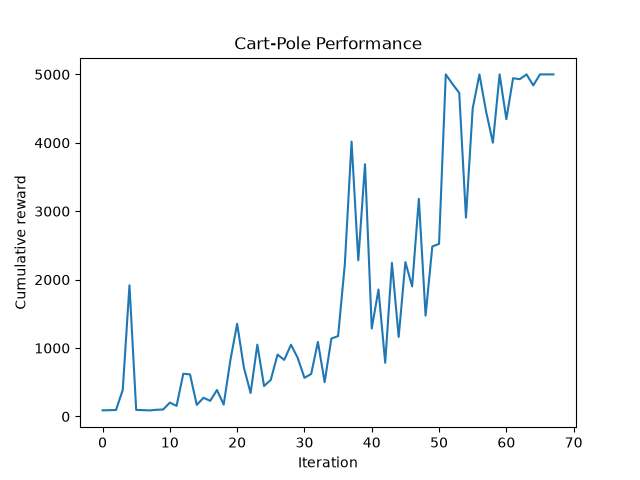
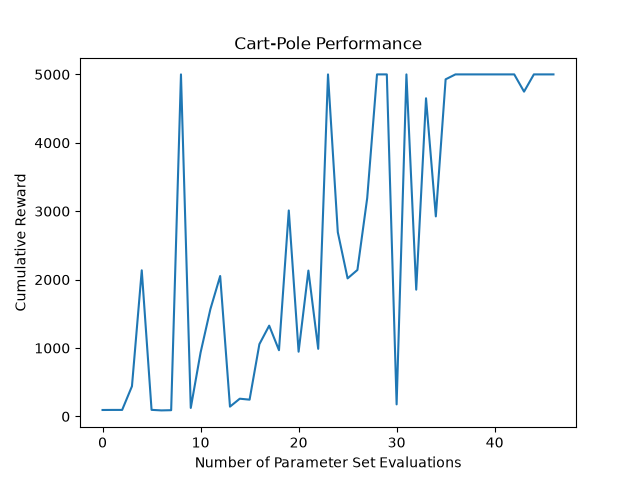
better graph labels

diff --git a/main.py b/main.py
@@ -51,8 +51,8 @@ scipy.optimize.minimize(maximize, x0=params, method='Nelder-Mead')
 
 # ploting
 plt.plot(rewards_over_time)
-plt.xlabel("Iteration")
-plt.ylabel("Cumulative reward")
+plt.xlabel("Number of Parameter Set Evaluations")
+plt.ylabel("Cumulative Reward")
 plt.title("Cart-Pole Performance")
 plt.savefig("performance_over_time.png")
 plt.close()
